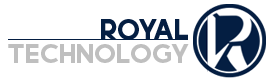
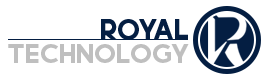
Bio page added
Bio page added

Changed region(s): [[0.6982, 0.05, 0.9891, 0.975]]

diff --git a/css/stylesheet.css b/css/stylesheet.css
@@ -68,11 +68,11 @@ p {
 
 /* logo styles */
 .logo {
-  padding-left: 20px;
+  padding-left: 0px;
 
 }
 .footer-styles {
-  background-color: #BFEFFF; /*#C3E4ED; #041E42; */
+  background-color: #bfbfbf; /*#C3E4ED; #041E42; */
 }
 
 .bg-light {
@@ -168,21 +168,37 @@ a.social-icons:hover {
 
 .dropstyles{
   margin-top: 0px;
-  margin-left: 5px
+  margin-left: 5px;
   border-radius: 0px;
   border: 3px solid #bfbfbf;
+  /*width: 100%;*/ /*this allows nav width increase */
 
 }
 
+
+.breadcrumb {
+  background-color: #fff;
+  padding: .75rem 3rem;
+}
+
+.bio {
+  max-width: 300px;
+  padding: 2rem;
+  float:right;
+}
+
+.bioparagraph {
+  margin-bottom: 0px;
+}
 
 /* Footer Styles
 -------------------------------------------------- */
 
 .subfooter {
 	padding: 20px 0 10px 5px;
-	color: #28274B;
+	color: #041E42;
 	width: 100%;
-	border-bottom: 1px solid #28274B;
+	border-bottom: 1px solid #041E42;
 }
 
 .footer-links {
@@ -191,18 +207,18 @@ a.social-icons:hover {
 	list-style: none;
 }
 .footer-links > li {
-	color: #28274B;
+	color: #041E42;
 	display: block;
 	font-weight: normal;
 }
 
 .first, .footer-state-links li {
-	color: #28274B;
+	color: #041E42;
 	display: block;
 	font-weight: 600;
 }
 .footer-links a, .ft-sidebar a {
-	color: #28274B;
+	color: #041E42;
 	display: inline-block;
 	line-height: 1.8;
 	text-decoration: none;
@@ -210,7 +226,7 @@ a.social-icons:hover {
 }
 
 .footer-links a:hover, .ft-sidebar a:hover {
-	color: #28274B;
+	color: #041E42;
 	display: inline-block;
 	line-height: 1.8;
 	text-decoration: underline;
@@ -218,7 +234,7 @@ a.social-icons:hover {
 }
 
 .footer-links a:visited, .ft-sidebar a:visited {
-	color: #28274B;
+	color: #041E42;
 	display: inline-block;
 	line-height: 1.8;
 	text-decoration: none;
@@ -230,3 +246,25 @@ a.social-icons:hover {
 	width: 100%;
 	border-bottom: 1px solid #000;
 }
+
+/*navbar hover function instead of click
+.dropdown:hover>.dropdown-menu {
+  display: block;
+}
+.dropdown-item:hover>.dropdown-menu {
+  display: block;
+}
+ul li{
+list-style-type:none;
+display: inline;
+}
+
+.navbar-nav .nav-link{display:inline-block;}
+
+.ml-auto {display:inline-block!important;}
+
+.dropdown>.dropdown-toggle:active {
+  pointer-events: none;
+}
+
+*/

diff --git a/leadership.php b/leadership.php
@@ -1,0 +1,114 @@
+<!DOCTYPE html>
+<html lang="en" dir="ltr">
+
+     <!--header scripts -->
+     <?php include ('includes/header-scripts.php'); ?>
+
+
+
+  <body class="site">
+
+    <!--head navbar -->
+    <?php include ('includes/headbar.php'); ?>
+
+    <!--head navbar -->
+    <?php include ('includes/logobar.php'); ?>
+
+    <!--head navbar -->
+    <?php include ('includes/nav.php'); ?>
+
+
+
+
+    <!-- begin content -->
+    <div class="site-content">
+
+<div class="container">
+  <div class="row">
+    <div class="col">
+    <nav aria-label="breadcrumb">
+      <ol class="breadcrumb">
+        <li class="breadcrumb-item"><a href="/">Home</a></li>
+        <li class="breadcrumb-item active" aria-current="page">Leadership</li>
+  </ol>
+</nav>
+</div>
+</div>
+</div>
+
+      <div class="container">
+        <div class="row"><!-- begin test area -->
+          <div class="col-sm-12 col-md-4">
+            <img src="../riveraprojects/img/headshot.jpg" alt="Headshot" class="bio d-none d-md-block">
+          </div>
+
+          <div class="col">
+
+            <div class="container-fluid">
+            <h3>Louis A Rivera Jr.</h3>
+            <p class="bioparagraph">Developer & Technology Consultant</p>
+
+            <p class="icon-section">
+              <a class="social-icons" href="https://github.com/louriv" target="_blank">
+                <i class="fab fa-github"></i>
+              </a>
+              &nbsp;
+              <a class="social-icons" href="https://www.linkedin.com/in/louisrivera1/" target="_blank">
+                <i class="fab fa-linkedin"></i>
+              </a>
+              &nbsp;
+              <a class="social-icons" href="https://baltimoredesign.slack.com/" target="_blank">
+                <i class="fab fa-slack" aria-hidden="true"></i>
+              </a>
+              &nbsp;
+              <a class="social-icons" href="mailto:https://baltimoredesign.slack.com/" target="_blank">
+                <i class="fas fa-envelope-open-text"></i>
+              </a>
+
+            </p>
+          </div>
+
+
+
+          <div class="container-fluid">
+            <p>Louis Rivera is an ambitious Web Developer who takes a keen interest in all kinds of technology. With a background in Design, Development & Project Management, he is always looking to stay at the forefront of cutting-edge technology. Louis is currently working full time as a Computer-Based Training Software Developer for By Light Professional IT Solutions.</p>
+
+                <p>Notable Aspects:</p>
+                <ul>
+                  <li>Treasurer's award Receipient - State of New Jersey</li>
+                  <li>Holding a current Public Trust Government Clearance</li>
+                  <li>Holding an active Secret Level Government Clearnace</li>
+                  <li>Master's Level Education</li>
+                </ul>
+              </div>
+
+
+        </div><!-- end testing area-->
+    </div>
+  </div>
+
+
+
+
+
+
+
+
+
+
+
+
+
+
+
+
+
+  <!--universal footer -->
+  <?php include ('includes/footer.php'); ?>
+
+  <!--footer scripts -->
+  <?php include ('includes/footer-scripts.php'); ?>
+
+
+</body>
+</html>

diff --git a/includes/nav.php b/includes/nav.php
@@ -11,21 +11,13 @@
   <div class="collapse navbar-collapse" id="navbarSupportedContent">
     <ul class="navbar-nav mr-auto">
       <li class="nav-item active">
-        <a class="nav-link" href="#">Home <span class="sr-only">(current)</span></a>
+        <a class="nav-link" href="index.php">Home <span class="sr-only">(current)</span></a>
       </li>
       <li class="nav-item">
-        <a class="nav-link" href="#">Profile</a>
+        <a class="nav-link" href="leadership.php">Leadership</a>
       </li>
-      <li class="nav-item dropdown">
-        <a class="nav-link dropdown-toggle" href="#" id="navbarDropdown" role="button" data-toggle="dropdown" aria-haspopup="true" aria-expanded="false">
-          Web Work
-        </a>
-        <div class="dropdown-menu dropstyles" aria-labelledby="navbarDropdown">
-          <a class="dropdown-item" href="#">Action</a>
-          <a class="dropdown-item" href="#">Another action</a>
-          <div class="dropdown-divider"></div>
-          <a class="dropdown-item" href="#">Something else here</a>
-        </div>
+      <li class="nav-item">
+        <a class="nav-link" href="#">Web Work</a>
       </li>
       <li class="nav-item">
         <a class="nav-link" href="#">Graphic Work</a>
@@ -46,6 +38,7 @@
         <a class="nav-link" href="#">Inquiries</a>
       </li>
     </ul>
+
     <!--
     <form class="form-inline my-2 my-lg-0">
       <input class="form-control mr-sm-2" type="search" placeholder="Search" aria-label="Search">

diff --git a/index.php b/index.php
@@ -23,19 +23,11 @@
 
     <!-- begin content -->
     <div class="site-content">
-      <div class="container">
-        <div class="row">
-          <div class="col-8">
+      <div class="container-fluid">
+        <div class="row"><!-- begin test area -->
 
-</div>
-          <div class="col-4">
-                    </div>
-
-
-
-
-
-</div>
+        
+        </div><!-- end testing area-->
     </div>
   </div>
 
